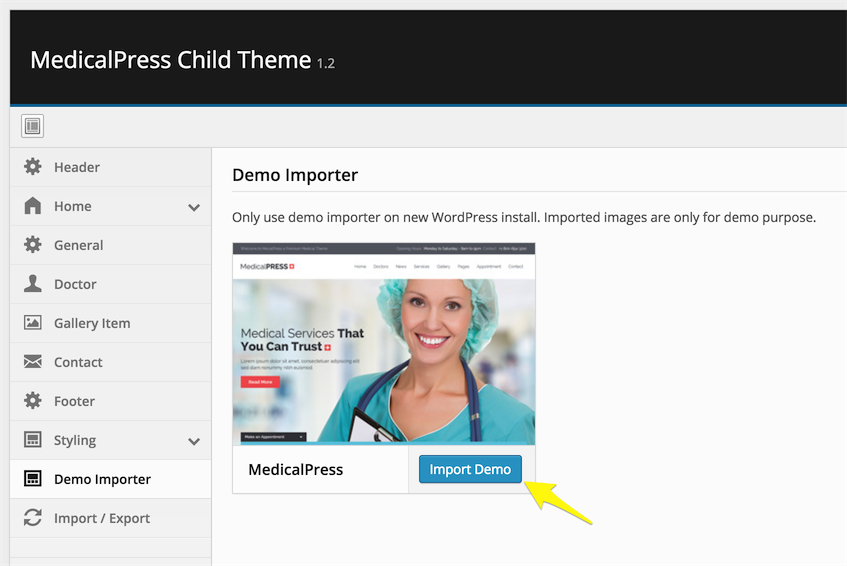
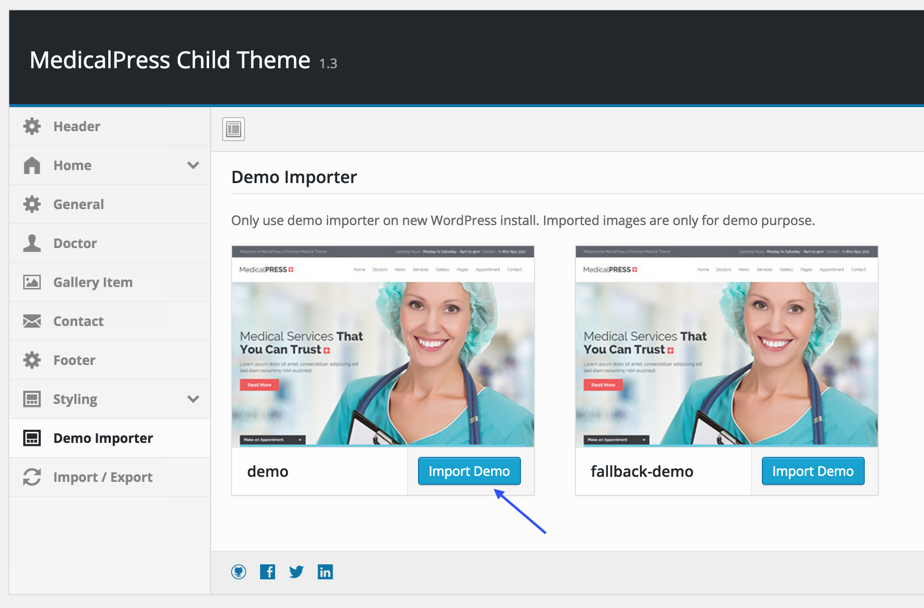
changed with previous version

diff --git a/index.html b/index.html
@@ -172,7 +172,7 @@
                     <article class="hentry" id="introduction">
                         <div class="entry-content">
                             <h1 class="entry-title">Introduction</h1>
-                            <p>This documentation is last updated on 27 April 2015.</p>
+                            <p>This documentation is last updated on 6th October 2015.</p>
                             <p>Thank you for purchasing MedicalPress WordPress Theme . If you have any question that is beyond the scope of this documentation, Please feel free to create a support ticket using <a href="http://support.inspirythemes.com/" target="_blank">Our Support Site</a>.</p>
                             <p class="bg-warning text-warning">
                                 <strong>Disclaimer:</strong><br/> We offer limited support for theme customers. We only provide support for our themes and their core features. We cannot guarantee our themes will work properly with all third party plugins and server environments. If you plan on adding numerous plugins to this theme then please note, We cannot facilitate support for any conflicts that might arise with this theme's default functionality. The MedicalPress WordPress theme is presented as it is.
@@ -265,11 +265,20 @@
                         	</p>
 
                         	<p>
-                        		Go to <strong>Theme Options &gt; Demo Importer</strong> and press <strong>Import Demo</strong> button, As guided in screenshot below. <br>
-                        	</p>
-
-                        	<p>
-                        		<strong>Now wait, It can take few minutes as images are fetched from remote server.</strong> You can visit your site once done.
+                        		Go to <strong>Theme Options &gt; Demo Importer</strong> and press <strong>Import Demo</strong> button, As pointed in screen shot below.
+                                <strong>Now wait, It can take few minutes as images are fetched from remote server.</strong> You can visit your site once done.
+                                <br/>
+                                <br/>
+                                Some time import process can become freezed/halted due to delays in fetching data from remote server.
+                                You can verify this by visiting media library in a new tab and analysing the number of images imported.
+                                In this case, Simply refresh theme options and re-click the demo import button as it will not add duplicate entries
+                                and simply resume from where it halted last time. It only adds duplicate entries in menu and those can be removed easily.
+                                <br/>
+                                <br/>
+                                If demo import process totally fails then you can try fallback demo import as that is hosted on a different server.
+                                <br/>
+                                <br/>
+                                For any further help you can create a support ticket on our support site.
                         	</p>
 
                             <img src="assets/medical-press/install/14.png" alt=""/><br/><br/>
@@ -297,7 +306,7 @@
                             <img src="assets/medical-press/install/5.png" alt=""/><br/><br/>
                             <p>Once installed you need to activate the plugin and run the importer.</p>
                             <img src="assets/medical-press/install/6.png" alt=""/><br/><br/>
-                            <p>Select the XML file from <strong>Import XML</strong> folder in unzipped package that you have downloaded from themeforest.</p>
+                            <p>Select the XML file from <strong>demo</strong> directory under <strong>Import XML</strong> directory in unzipped package that you have downloaded from themeforest.</p>
                             <img src="assets/medical-press/install/7.png" alt=""/><br/><br/>
                             <p>
                                 After importing XML file.
@@ -343,7 +352,7 @@
                                 <li>Click 'Import from URL' button</li>
                                 <li>Copy this import URL and paste it into the URL field
                                     <code class="url">
-                                        http://inspirythemesdemo.com/medicalpress/wp-admin/admin-ajax.php?action=redux_link_options&secret=a8af53a86e6df9ed268e1d2e9421fe19
+                                        http://medicalpress-min.inspirythemes.biz/wp-admin/admin-ajax.php?action=redux_download_options-redux_demo&secret=19a70075b0eb105a5530ed121e177ee9
                                     </code>
                                     <br>
                                     <img src="assets/medical-press/install/12.png" alt=""><br><br>
